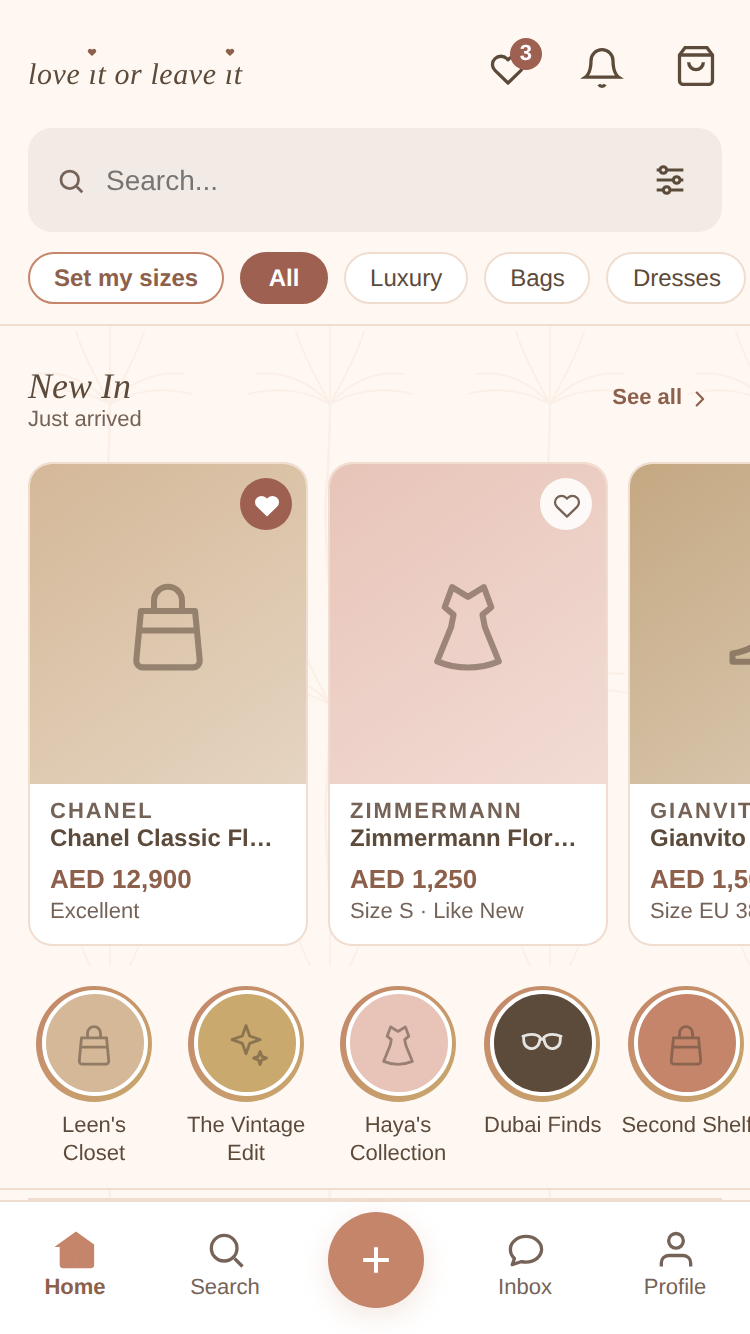
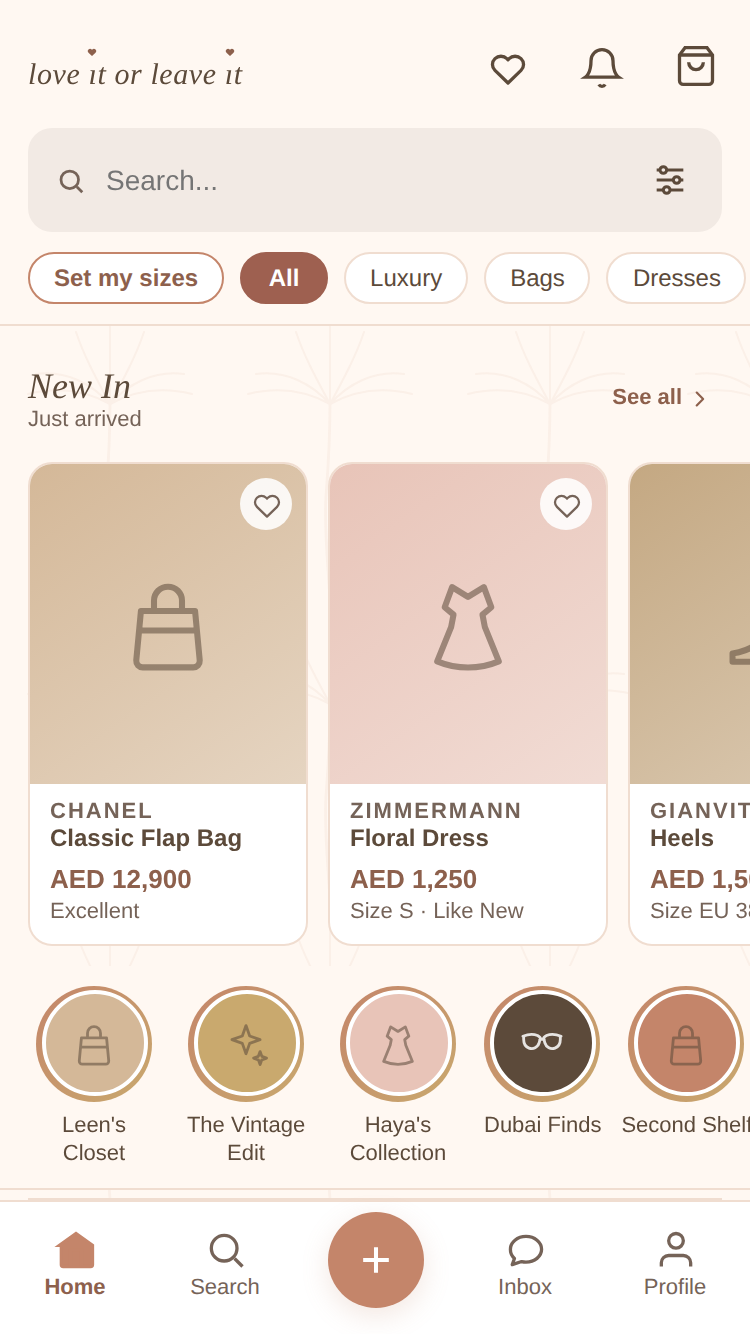
Audit two app findings: price guide, dark-mode fields, keyboard tiles, honest seeds
- A2-1 price guide: only a named model's floor, "resell from about AED X",
  worded the same on the item page and the offer sheet; no range and no
  above/inside/under verdict built from a fake-detection floor
- A2-2 search field and error alerts use theme tokens (--c-field,
  --c-alert-bg); typed search text was 1.04:1 in dark mode
- A2-3 grid tiles open from the keyboard: the title is a real button
- A2-4 a first visit starts with no saves, and only three sample pieces
  read as NEW
- A2-5 saved searches promise the "N new" count that works, not an alert
  that the database drops until the owner SQL runs
- A2-11 private reads name their columns instead of select("*")
- A2-12 tiles and the New In strip don't repeat the brand in the title
- A2-13 language rows are one line; per-language notes moved under
  "How this works"
- A2-8 tests: axe runs in dark mode with text typed into search (it fails
  on the old colour), and the keyboard suite tabs to a grid tile and opens it

Claude-Session: https://claude.ai/code/session_01UPPZeDd8ShCtBFb3VinzWU

diff --git a/app/src/market/shared.jsx b/app/src/market/shared.jsx
@@ -10,7 +10,7 @@ import * as offers from "../data/offers.js";
 import { isNewArrival } from "../discovery/ranking.js";
 import { t, getLang } from "../i18n/t.js";
 import { type as typeScale, space } from "../theme/scale.js";
-import { backArrow } from "../i18n/direction.js";
+import { backArrow, money } from "../i18n/direction.js";
 import { sizeLabel } from "../sizes/sizeSystem.js";
 import { useSizeSystem } from "../sizes/SizeSystemPicker.jsx";
 
@@ -172,13 +172,13 @@ export const SHOPS = [
 ];
 
 export const ITEMS = [
-  {id:1,shopId:1,title:"Chanel Classic Flap Bag",titleAr:"شنطة شانيل كلاسيك فلاب",subtitle:"Medium · Beige Lambskin",price:12900,brand:"Chanel",category:"Luxury",condition:"Excellent",era:"Modern",size:"OS",color:"#D4B898",icon:"bag",photo:null,saved:true,desc:"Timeless Chanel Classic Flap in beige lambskin with gold hardware. Gently used, excellent condition. Comes with dust bag and authenticity card.",offers:[]},
+  {id:1,shopId:1,title:"Chanel Classic Flap Bag",titleAr:"شنطة شانيل كلاسيك فلاب",subtitle:"Medium · Beige Lambskin",price:12900,brand:"Chanel",category:"Luxury",condition:"Excellent",era:"Modern",size:"OS",color:"#D4B898",icon:"bag",photo:null,saved:false,desc:"Timeless Chanel Classic Flap in beige lambskin with gold hardware. Gently used, excellent condition. Comes with dust bag and authenticity card.",offers:[]},
   {id:2,shopId:1,title:"Zimmermann Floral Dress",titleAr:"فستان زيمرمان الزهري",subtitle:"Ruffle Mini",price:1250,brand:"Zimmermann",category:"Dresses",condition:"Like New",era:"Modern",size:"S",color:"#E8C4B8",icon:"dress",photo:null,saved:false,desc:"Beautiful Zimmermann ruffle mini dress with floral print. Worn once to a brunch. Perfect condition.",offers:[]},
   {id:3,shopId:2,title:"Gianvito Rossi Heels",titleAr:"كعب جيانفيتو روسي",subtitle:"Nude Pumps 38",price:1500,brand:"Gianvito Rossi",category:"Shoes",condition:"Good",era:"Modern",size:"38",color:"#C4A882",icon:"heel",photo:null,saved:false,desc:"Gianvito Rossi Gianvito 105 pumps in nude PVC. Minor sole wear. Stunning on.",offers:[]},
-  {id:4,shopId:2,title:"Van Cleef Vintage Alhambra",titleAr:"فان كليف فينتاج الحمبرا",subtitle:"Yellow Gold · Malachite",price:8200,brand:"Van Cleef & Arpels",category:"Luxury",condition:"Excellent",era:"Vintage",size:"OS",color:"#C9A96E",icon:"jewellery",photo:null,saved:true,desc:"Iconic Van Cleef & Arpels Vintage Alhambra necklace. Yellow gold with malachite. Comes with original pouch.",offers:[]},
+  {id:4,shopId:2,title:"Van Cleef Vintage Alhambra",titleAr:"فان كليف فينتاج الحمبرا",subtitle:"Yellow Gold · Malachite",price:8200,brand:"Van Cleef & Arpels",category:"Luxury",condition:"Excellent",era:"Vintage",size:"OS",color:"#C9A96E",icon:"jewellery",photo:null,saved:false,desc:"Iconic Van Cleef & Arpels Vintage Alhambra necklace. Yellow gold with malachite. Comes with original pouch.",offers:[]},
   {id:5,shopId:3,title:"Chloé Woody Tote",titleAr:"شنطة كلوي وودي",subtitle:"Tan & White Canvas",price:1650,brand:"Chloé",category:"Bags",condition:"Like New",era:"Modern",size:"OS",color:"#D4B898",icon:"bag",photo:null,saved:false,desc:"Chloé Woody tote in tan and white. Barely used. Perfect summer bag.",offers:[]},
   {id:6,shopId:4,title:"Linen Abaya",titleAr:"عباية كتان",subtitle:"Dubai Design · Cream",price:260,brand:"Local Designer",category:"Abayas",condition:"Like New",era:"Modern",size:"M",color:"#EDE0D0",icon:"abaya",photo:null,saved:false,desc:"Beautifully crafted linen abaya in warm white. Worn once to a family gathering.",offers:[]},
-  {id:7,shopId:5,title:"Celine Sunglasses",titleAr:"نظارة سيلين",subtitle:"Cat Eye · Tortoiseshell",price:800,brand:"Celine",category:"Luxury",condition:"Excellent",era:"Modern",size:"OS",color:"#5C4A3A",icon:"sunglass",photo:null,saved:true,desc:"Celine cat-eye sunglasses in tortoiseshell. Come with original case and cleaning cloth.",offers:[]},
+  {id:7,shopId:5,title:"Celine Sunglasses",titleAr:"نظارة سيلين",subtitle:"Cat Eye · Tortoiseshell",price:800,brand:"Celine",category:"Luxury",condition:"Excellent",era:"Modern",size:"OS",color:"#5C4A3A",icon:"sunglass",photo:null,saved:false,desc:"Celine cat-eye sunglasses in tortoiseshell. Come with original case and cleaning cloth.",offers:[]},
   {id:8,shopId:6,title:"Reformation Midi Dress",titleAr:"فستان ريفورميشن",subtitle:"Terracotta · Fitted",price:480,brand:"Reformation",category:"Dresses",condition:"Like New",era:"Y2K",size:"XS",color:"#C4856A",icon:"dress",photo:null,saved:false,desc:"Reformation fitted midi in warm terracotta. Worn once to a brunch. Stunning silhouette.",offers:[]},
   {id:9,shopId:1,title:"Bottega Veneta Pouch",titleAr:"حقيبة بوتيغا فينيتا",subtitle:"Intrecciato · Nude",price:3200,brand:"Bottega Veneta",category:"Bags",condition:"Like New",era:"Modern",size:"OS",color:"#C4A882",icon:"bag",photo:null,saved:false,desc:"The iconic Bottega Veneta pouch in nude intrecciato leather. Like new, barely carried.",offers:[]},
   {id:10,shopId:3,title:"Jacquemus Le Chiquito",titleAr:"جاكيموس لو شيكيتو",subtitle:"Mini Bag · Caramel",price:1800,brand:"Jacquemus",category:"Bags",condition:"Excellent",era:"Modern",size:"OS",color:"#C9A96E",icon:"bag",photo:null,saved:false,desc:"Jacquemus Le Chiquito in caramel leather. Absolutely perfect condition with dustbag.",offers:[]},
@@ -397,7 +397,7 @@ export function BackBtn({onBack}) {
 // how many are on, so a narrowed feed never looks like an empty marketplace.
 export function SearchBar({value,onChange,autoFocus=false,placeholder="Search...",onFilters,filterCount=0}) {
   return (
-    <div style={{display:"flex",alignItems:"center",gap:8,background:"#F2EAE4",
+    <div style={{display:"flex",alignItems:"center",gap:8,background:"var(--c-field)",
       borderRadius:12,padding:onFilters?"4px 4px 4px 14px":"10px 14px",margin:"0 14px 10px"}}>
       <svg width="15" height="15" viewBox="0 0 24 24" fill="none" stroke={C.inkLt} strokeWidth="2.2" aria-hidden="true"><circle cx="11" cy="11" r="7"/><path d="M21 21l-4.35-4.35"/></svg>
       <input value={value} onChange={e=>onChange(e.target.value)}
@@ -415,7 +415,7 @@ export function SearchBar({value,onChange,autoFocus=false,placeholder="Search...
           <svg width="20" height="20" viewBox="0 0 24 24" fill="none" stroke="currentColor" strokeWidth="1.8" aria-hidden="true">
             <line x1="4" y1="6" x2="20" y2="6"/><line x1="4" y1="12" x2="20" y2="12"/>
             <line x1="4" y1="18" x2="20" y2="18"/>
-            <circle cx="8" cy="6" r="2" fill={filterCount?C.btn:"#F2EAE4"}/><circle cx="16" cy="12" r="2" fill={filterCount?C.btn:"#F2EAE4"}/><circle cx="10" cy="18" r="2" fill={filterCount?C.btn:"#F2EAE4"}/>
+            <circle cx="8" cy="6" r="2" fill={filterCount?C.btn:"var(--c-field)"}/><circle cx="16" cy="12" r="2" fill={filterCount?C.btn:"var(--c-field)"}/><circle cx="10" cy="18" r="2" fill={filterCount?C.btn:"var(--c-field)"}/>
           </svg>
           {filterCount > 0 && <span style={{fontSize:12,fontWeight:700}}>{filterCount}</span>}
         </button>
@@ -479,6 +479,16 @@ export function Monogram({shop, size=44}) {
 
 
 
+// A2-12: the brand sits on its own line above, so a title that starts with it
+// ("Chanel Classic Flap Bag" under CHANEL) loses the useful words off the tile.
+export function tileTitle(item) {
+  const title = getLang()==="ar" && item.titleAr ? item.titleAr : (item.title || "");
+  const b = (item.brand || "").trim();
+  if (b && title.toLowerCase().startsWith(b.toLowerCase() + " ") && title.length > b.length + 3)
+    return title.slice(b.length + 1);
+  return title;
+}
+
 export function ItemTile({item,onSave,onClick,loading}) {
   useSizeSystem();          // re-render when she switches EU / UK / US …
   // A tile waiting on its own data renders the skeleton at the same size,
@@ -492,7 +502,8 @@ export function ItemTile({item,onSave,onClick,loading}) {
       onMouseLeave={e=>e.currentTarget.style.transform=""}>
       <div className="lili-ratio-tile">
         <ItemPhoto item={item}/>
-        <button className="tap-round" aria-label="Save" onClick={e=>{e.stopPropagation();onSave(item.id)}} style={{
+        <button className="tap-round" aria-label={`Save ${item.title}`} aria-pressed={!!item.saved}
+          onClick={e=>{e.stopPropagation();onSave(item.id)}} style={{
           position:"absolute",top:8,right:8,width:30,height:30,borderRadius:"50%",
           background:item.saved?C.btn:C.scrimDD,
           border:`1.5px solid ${item.saved?C.terra:C.border}`,
@@ -521,9 +532,15 @@ export function ItemTile({item,onSave,onClick,loading}) {
         {/* One title, in her language. Both on every card doubled the text in
             the grid and halved the room for the garment; the Arabic title is
             still searched, and shown in full on the piece itself. */}
-        <div dir="auto" style={{fontSize:13,fontWeight:600,color:C.ink,lineHeight:1.3,marginBottom:4,
+        {/* A2-3: the tile is a div for touch, so the title is the real button
+            a keyboard or switch user reaches and presses to open the piece. */}
+        <button type="button" dir="auto" data-tile-title onClick={e=>{e.stopPropagation();onClick&&onClick();}}
+          aria-label={`${item.brand ? item.brand+" " : ""}${tileTitle(item)}, ${money(item.price)}`}
+          style={{display:"block",width:"100%",textAlign:"start",background:"none",border:"none",padding:0,
+          fontFamily:"inherit",cursor:"pointer",
+          fontSize:13,fontWeight:600,color:C.ink,lineHeight:1.3,marginBottom:4,
           whiteSpace:"nowrap",overflow:"hidden",textOverflow:"ellipsis"}}>
-          {getLang()==="ar" && item.titleAr ? item.titleAr : item.title}</div>
+          {tileTitle(item)}</button>
         <PriceTag item={item} size={14}/>
         {/* Size and condition read together, as one line, under the price —
             the two things she filters on in her head before she taps. */}

diff --git a/app/src/backend/remote.js b/app/src/backend/remote.js
@@ -122,6 +122,14 @@ const fromRow = (r) => r && ({ ...r,
   thumb: Array.isArray(r.thumbs) && r.thumbs.length ? r.thumbs[0]
        : (Array.isArray(r.photos) && r.photos.length ? r.photos[0] : null) });
 
+// A2-11: the private reads name their columns, as listings and shops do, so a
+// column added later (an internal note, a flag) is never sent by accident.
+const LILI_CONVERSATIONS_COLUMNS = "id,buyer_uid,seller_uid,shop_id,item_id,last_message,last_at,created_at";
+const LILI_MEETS_COLUMNS = "id,conversation_id,item_id,proposed_by,place_key,place_note,meet_at,state,confirmed_at,cancelled_by,checkin_by,checkin_state,checkin_at,created_at";
+const LILI_MESSAGES_COLUMNS = "id,conversation_id,sender_uid,body,read_at,created_at";
+const LILI_NOTIFICATIONS_COLUMNS = "id,user_id,kind,title,body,link_kind,link_id,read_at,created_at";
+const LILI_OFFERS_COLUMNS = "id,item_id,shop_id,buyer_uid,seller_uid,amount,currency,message,state,counter_of,responded_at,expires_at,created_at,made_by";
+
 // ── the row allowlist ───────────────────────────────────────────────────────
 //
 // v2.8 fix, and the most expensive bug in the project so far.
@@ -906,7 +914,7 @@ export async function getConversations() {
   const sb = await db();
   const uid = await currentUid();
   const { data, error } = await sb.from("lili_conversations")
-    .select("*").or(`buyer_uid.eq.${uid},seller_uid.eq.${uid}`)
+    .select(LILI_CONVERSATIONS_COLUMNS).or(`buyer_uid.eq.${uid},seller_uid.eq.${uid}`)
     .order("last_at", { ascending: false });
   if (error) throw error;
   return (data || []).map((c) => ({ ...c, mine: c.buyer_uid === uid ? "buyer" : "seller" }));
@@ -917,7 +925,7 @@ export async function openConversation({ sellerUid, shopId, itemId }) {
   const sb = await db();
   const uid = await currentUid();
   if (sellerUid === uid) throw new Error("That's your own listing");
-  let find = sb.from("lili_conversations").select("*")
+  let find = sb.from("lili_conversations").select(LILI_CONVERSATIONS_COLUMNS)
     .eq("buyer_uid", uid).eq("seller_uid", sellerUid);
   // `.eq(col, null)` asks for `= NULL`, which matches nothing, so a thread
   // about the shop rather than a piece was opened again every time.
@@ -934,7 +942,7 @@ export async function openConversation({ sellerUid, shopId, itemId }) {
 export async function getMessages(conversationId) {
   const sb = await db();
   const { data, error } = await sb.from("lili_messages")
-    .select("*").eq("conversation_id", conversationId)
+    .select(LILI_MESSAGES_COLUMNS).eq("conversation_id", conversationId)
     .order("created_at", { ascending: true }).limit(500);
   if (error) throw error;
   return data || [];
@@ -1108,7 +1116,7 @@ export async function eraseMe() {
 
 export async function getMeets(conversationId) {
   const sb = await db();
-  const { data, error } = await sb.from("lili_meets").select("*")
+  const { data, error } = await sb.from("lili_meets").select(LILI_MEETS_COLUMNS)
     .eq("conversation_id", conversationId).order("created_at", { ascending: false }).limit(10);
   if (error) throw error;
   return data || [];
@@ -1256,7 +1264,7 @@ export async function getShopStats(shopId) {
 export async function getNotifications({ unreadOnly = false, limit = 50 } = {}) {
   const sb = await db();
   const uid = await currentUid();
-  let q = sb.from("lili_notifications").select("*").eq("user_id", uid)
+  let q = sb.from("lili_notifications").select(LILI_NOTIFICATIONS_COLUMNS).eq("user_id", uid)
     .order("created_at", { ascending: false }).limit(limit);
   if (unreadOnly) q = q.is("read_at", null);
   const { data, error } = await q;
@@ -1342,7 +1350,7 @@ export async function makeOffer({ itemId, shopId, sellerUid, amount, message }) 
 export async function getOffers() {
   const sb = await db();
   const uid = await currentUid();
-  const { data, error } = await sb.from("lili_offers").select("*")
+  const { data, error } = await sb.from("lili_offers").select(LILI_OFFERS_COLUMNS)
     .or(`buyer_uid.eq.${uid},seller_uid.eq.${uid}`)
     .order("created_at", { ascending: false }).limit(200);
   if (error) throw error;

diff --git a/app/src/market/ItemModal.jsx b/app/src/market/ItemModal.jsx
@@ -52,29 +52,24 @@ export function PriceContext({ item }) {
     return () => { alive = false; };
   }, [item && item.id]);
 
-  if (!band) return null;
-  const price = Number(item.price) || 0;
-  const range = `AED ${band.low.toLocaleString()}–${band.high.toLocaleString()}`;
-  const where = price <= 0 ? null
-    : price < band.low ? "This one is under that range."
-    : price > band.high ? "This one is above that range."
-    : "This one sits inside that range.";
-
-  // M-11: one line on the screen where she decides; the provenance is a tap away.
-  const short = price <= 0 ? null
-    : price < band.low ? "under that" : price > band.high ? "above that" : "inside that";
+  // Audit A2-1: the band's `low` is the floor of genuine (it exists to flag
+  // fakes) and `high` was that floor times a fixed spread, so "AED 12,000–
+  // 144,000" was noise, and "above that range" told a fairly priced seller she
+  // was over the market on no data. Now: only a named model, which has a real
+  // floor, and only that floor, worded the same as on the offer sheet.
+  if (!band || !band.model) return null;
   return (
     <div style={{background:C.sand,border:`1px solid ${C.border}`,borderRadius:12,
       padding:"8px 12px",marginBottom:14}}>
       <div style={{fontSize:12,color:C.ink,lineHeight:1.5}}>
-        Usually resells here for <b>{range}</b>{short ? ` · this one is ${short}` : ""}
+        Genuine {band.tierBrand} pieces like this in {band.condition} condition resell from about <b>AED {band.low.toLocaleString("en-US")}</b>
       </div>
       <details style={{marginTop:2}}>
         <summary style={{fontSize:11,color:C.inkLt,cursor:"pointer",minHeight:24,
           display:"flex",alignItems:"center"}}>How this works</summary>
         <div style={{fontSize:11,color:C.inkLt,lineHeight:1.5,marginTop:2}}>
-          Pieces of this kind, in this condition, from published resale data.{where ? ` ${where}` : ""}{" "}
-          A guide, not an appraisal of this piece.
+          The lowest prices genuine pieces of this model reach second-hand, from published resale
+          data. Far below it is a reason to ask for proof of purchase. A guide, not an appraisal of this piece.
         </div>
       </details>
     </div>

diff --git a/app/src/discovery/SavedSearches.jsx b/app/src/discovery/SavedSearches.jsx
@@ -5,8 +5,10 @@ import * as repo from "../data/repo.js";
 import { money } from "../i18n/direction.js";
 
 // ── search page (Jacob's Law: dedicated search tab like Depop/TikTok) ─────
-// "Tell me when it's listed": the search she just ran, kept on the server so the
-// database can tell her the moment a matching piece goes live. Vinted, Depop
+// The search she just ran, kept on the server with a count of new matches.
+// Audit A2-5: the button said "Tell me when it's listed" while every alert was
+// dropped (the notification kind isn't allowed until the owner runs
+// supabase/pending). It promises the count, which works, until then. Vinted, Depop
 // and Vestiaire all have it; for a catalogue this young, where most searches
 // come back short, it is the difference between a dead end and a reason to
 // come back.
@@ -25,7 +27,7 @@ export function SaveSearchButton({q, filters, prominent}) {
   const what = `“${q.trim()}”${category?` in ${category}`:""}${maxPrice?` under ${money(maxPrice)}`:""}`;
   if (state === "saved") return (
     <div role="status" style={{fontSize:12,color:C.inkLt,lineHeight:1.5,padding:prominent?"10px 0 0":"0 4px 10px"}}>
-      <Icon name="check" size={13} style={{color:C.greenTx,verticalAlign:"-2px"}}/> Saved. We'll tell you when something new matches {what}.
+      <Icon name="check" size={13} style={{color:C.greenTx,verticalAlign:"-2px"}}/> Saved. Your saved searches show how many new pieces match {what} each time you open lili.
     </div>
   );
   return (
@@ -38,7 +40,7 @@ export function SaveSearchButton({q, filters, prominent}) {
              padding:"6px 14px",fontSize:12,fontWeight:700,cursor:"pointer",fontFamily:"inherit",
              display:"inline-flex",alignItems:"center",gap:6}}>
         {!prominent && <Icon name="bell" size={13}/>}
-        {state==="busy" ? "Saving…" : prominent ? "Tell me when it's listed" : "Save this search"}
+        {state==="busy" ? "Saving…" : "Save this search"}
       </button>
       {problem && <div role="alert" style={{fontSize:12,color:C.redTx,marginTop:6}}>{problem}</div>}
     </div>

diff --git a/app/src/Marketplace.jsx b/app/src/Marketplace.jsx
@@ -54,7 +54,7 @@ const AgreementSheet = lazy(() => import("./compliance/AgreementSheet.jsx"));
 import { sellerClausesFor } from "./compliance/agreements.js";
 import * as repo from "./data/repo.js";
 import { normalise as normalisePrefs, fitsMe, hasSizes, isEmpty as prefsEmpty, summary as prefsSummary } from "./profile/preferences.js";
-import { C, PalmBg, Lili, LiliWordmark, T, SHOPS, ITEMS, CATS, categoryLabel, SIZES, ITEM_CATS, STORIES, Avatar, ItemPhoto, TopBar, SearchBar, withHeart, Placeholder, ItemTile, BRANDS } from "./market/shared.jsx";
+import { C, PalmBg, Lili, LiliWordmark, T, SHOPS, ITEMS, CATS, categoryLabel, SIZES, ITEM_CATS, STORIES, Avatar, ItemPhoto, TopBar, SearchBar, withHeart, Placeholder, ItemTile, tileTitle, BRANDS } from "./market/shared.jsx";
 import { FiltersPanel } from "./market/FiltersPanel.jsx";
 import { ItemModal } from "./market/ItemModal.jsx";
 import { OfferModal } from "./market/OfferModal.jsx";
@@ -312,7 +312,7 @@ function NewInStrip({items,onSave,setModal,onSeeAll}) {
               {item.brand && <div style={{fontSize:11,fontWeight:700,letterSpacing:1,color:C.inkLt,
                 textTransform:"uppercase",whiteSpace:"nowrap",overflow:"hidden",textOverflow:"ellipsis"}}>{item.brand}</div>}
               <div dir="auto" style={{fontSize:12,fontWeight:600,color:C.ink,lineHeight:1.3,
-                whiteSpace:"nowrap",overflow:"hidden",textOverflow:"ellipsis"}}>{getLang()==="ar" && item.titleAr ? item.titleAr : item.title}</div>
+                whiteSpace:"nowrap",overflow:"hidden",textOverflow:"ellipsis"}}>{tileTitle(item)}</div>
               <div style={{marginTop:3}}><PriceTag item={item} size={13}/></div>
               <div style={{fontSize:11,color:C.inkLt,marginTop:1,whiteSpace:"nowrap",overflow:"hidden",textOverflow:"ellipsis"}}>
                 {[item.size && item.size!=="OS" ? `Size ${sizeLabel(item.size)}` : null, item.condition].filter(Boolean).join(" · ")}

diff --git a/app/src/pages/SellPage.jsx b/app/src/pages/SellPage.jsx
@@ -461,7 +461,7 @@ export function SellPage({myShop,onCreateShop,onAddItem,setTab,onListed}) {
           : <button onClick={submit} style={{background:"none",border:"none",cursor:"pointer",color:C.terraTx,fontSize:13,fontWeight:700}}>{t("list")}</button>}
       </div>
       {stepError && (
-        <div role="alert" style={{background:"#FBF0EE",borderBottom:`1px solid ${C.red}`,
+        <div role="alert" style={{background:"var(--c-alert-bg)",borderBottom:`1px solid ${C.red}`,
           padding:"10px 14px",fontSize:12,color:C.ink,lineHeight:1.5,
           display:"flex",alignItems:"center",justifyContent:"space-between",gap:10}}>
           <span>{stepError.message}</span>
@@ -673,7 +673,7 @@ export function SellPage({myShop,onCreateShop,onAddItem,setTab,onListed}) {
             <ListingQuality form={form} photos={photos}/>
 
             {publishError && (
-              <div role="alert" style={{background:"#FBF0EE",border:`1.5px solid ${C.red}`,
+              <div role="alert" style={{background:"var(--c-alert-bg)",border:`1.5px solid ${C.red}`,
                 borderRadius:12,padding:"12px 14px",fontSize:12,lineHeight:1.55,color:C.ink}}>
                 <b style={{color:C.redTx}}>Not published.</b> {publishError}
               </div>
@@ -769,7 +769,7 @@ export function SellPage({myShop,onCreateShop,onAddItem,setTab,onListed}) {
             <ListingQuality form={form} photos={photos}/>
 
             {publishError && (
-              <div role="alert" style={{background:"#FBF0EE",border:`1.5px solid ${C.red}`,
+              <div role="alert" style={{background:"var(--c-alert-bg)",border:`1.5px solid ${C.red}`,
                 borderRadius:12,padding:"12px 14px",fontSize:12,lineHeight:1.55,color:C.ink}}>
                 <b style={{color:C.redTx}}>Not published.</b> {publishError}
               </div>

diff --git a/app/src/data/repo.js b/app/src/data/repo.js
@@ -288,19 +288,21 @@ export async function bootstrap(seedItems, seedShops) {
     // (discovery/ranking.js), and the honest created_at for a demo piece is
     // when the demo started — a fresh install genuinely has a fresh catalogue,
     // and a fortnight later the strip empties by itself, as it should.
+    //
+    // Audit A2-4: every piece stamped within the last few hours made all ten
+    // tiles say NEW, which carries no information. The first three read as
+    // new; the rest are dated weeks back, as a real catalogue would be.
     const now = Date.now();
     const stamped = (seedItems || []).map((i, n) => {
-      const { isNew, hasStory, ...rest } = i;
-      return { ...rest, created_at: new Date(now - n * 3600e3).toISOString() };
+      const { isNew, hasStory, saved, ...rest } = i;
+      const ageMs = n < 3 ? n * 3600e3 : (16 + n * 5) * 86400e3;
+      return { ...rest, created_at: new Date(now - ageMs).toISOString() };
     });
     await setJSON(K.items, stamped);
     await setJSON(K.shops, seedShops);
-    // The demo catalogue carries a few `saved` flags so a cold start does not
-    // look untouched. Now that a save is a set of ids rather than a flag on the
-    // listing, that set has to be seeded HERE — otherwise the screen shows
-    // three hearts while the store holds none, and the first tap corrects the
-    // count downwards instead of up.
-    await setJSON(K.saved, stamped.filter((i) => i.saved).map((i) => i.id));
+    // A2-4: a visitor's saves start empty. Hearts she never tapped were a
+    // claim about her that wasn't true.
+    await setJSON(K.saved, []);
     await setJSON(K.seeded, true);
   }
   return {

diff --git a/app/src/market/OfferModal.jsx b/app/src/market/OfferModal.jsx
@@ -212,10 +212,10 @@ export function OfferModal({item,shop,onClose,onSubmit}) {
                 marginBottom:12,boxSizing:"border-box",fontFamily:"inherit"}}/>
 
             {/* Only shown when there IS a basis. No band, no opinion. */}
-            {band && (
+            {band && band.model && (
               <div style={{background:C.sand,borderRadius:10,padding:"10px 14px",marginBottom:12}}>
                 <div style={{fontSize:11,color:C.inkLt,lineHeight:1.55}}>
-                  Comparable {band.tierBrand} pieces in {band.condition} condition
+                  Genuine {band.tierBrand} pieces like this in {band.condition} condition
                   resell from about <b style={{color:C.ink}}>{money(band.low)}</b>.
                   A guide from published resale data, not a valuation of this piece.
                 </div>
@@ -229,7 +229,7 @@ export function OfferModal({item,shop,onClose,onSubmit}) {
               </div>
             )}
             {error && (
-              <div role="alert" style={{background:"#FBF0EE",border:`1px solid ${C.red}`,
+              <div role="alert" style={{background:"var(--c-alert-bg)",border:`1px solid ${C.red}`,
                 borderRadius:10,padding:"10px 14px",marginBottom:12,fontSize:12,
                 color:C.ink,lineHeight:1.55}}>{error}</div>
             )}

diff --git a/app/src/i18n/LanguagePicker.jsx b/app/src/i18n/LanguagePicker.jsx
@@ -99,6 +99,9 @@ export default function LanguagePicker({ onBack, onChange }) {
         English — we would rather tell you that than machine-translate a
         refund policy and hope.
       </Note>
+      {LANGUAGES.filter((l) => l.note).map((l) => (
+        <Note key={l.code}><b>{l.name}.</b> {l.note}</Note>
+      ))}
       </details>
     </Shell>
   );
@@ -127,11 +130,8 @@ function Row({ lang, selected, requested, onClick }) {
               same fabricated claim as a review count nobody wrote. */}
           {partial && <span style={{ color: C.goldTx }}> · partly translated</span>}
         </div>
-        {lang.note && (
-          <div style={{ fontSize: 11, color: C.inkLt, marginTop: 5, lineHeight: 1.5 }}>
-            {lang.note}
-          </div>
-        )}
+        {/* A2-13: the per-language notes made the Arabic row seven lines long;
+            they live under "How this works" now, one line per row here. */}
       </div>
       {selected && <Icon name="check" size={15} stroke={2.2} style={{ color: C.terraTx }} />}
       {planned && (

diff --git a/app/src/theme/palette.css b/app/src/theme/palette.css
@@ -59,6 +59,11 @@
   --c-scrim-ee: rgba(255, 255, 255, 0.93);
 
   --c-shadow:   rgba(196, 133, 106, 0.20);
+
+  /* Fields and alerts used to hard-code these two (audit A2-2), so in dark
+     mode the search text, ink on #F2EAE4, was 1.04:1 — invisible. */
+  --c-field:    #F2EAE4;
+  --c-alert-bg: #FBF0EE;
 }
 
 [data-theme="dark"] {
@@ -97,6 +102,9 @@
   --c-scrim-ee: rgba(22, 17, 14, 0.94);
 
   --c-shadow:   rgba(0, 0, 0, 0.45);
+
+  --c-field:    #2E241D;
+  --c-alert-bg: #3A211D;
 }
 
 @media (prefers-color-scheme: dark) {
@@ -113,6 +121,7 @@
     --c-scrim-88: rgba(22,17,14,.55); --c-scrim-cc: rgba(22,17,14,.82);
     --c-scrim-dd: rgba(22,17,14,.88); --c-scrim-ee: rgba(22,17,14,.94);
     --c-shadow: rgba(0,0,0,.45);
+    --c-field: #2E241D; --c-alert-bg: #3A211D;
   }
 }
 

diff --git a/app/src/compliance/ReportDialog.jsx b/app/src/compliance/ReportDialog.jsx
@@ -148,7 +148,7 @@ export default function ReportDialog({ subject, onClose }) {
             : "A reviewer will look at this and you'll get the outcome and the reason for it."}
         </div>
         {sent.refusal && (
-          <div role="alert" style={{ background: "#FBF0EE", border: `1.5px solid ${C.red}`,
+          <div role="alert" style={{ background: "var(--c-alert-bg)", border: `1.5px solid ${C.red}`,
             borderRadius: 12, padding: "12px 14px", fontSize: 12, lineHeight: 1.55,
             color: C.ink, marginBottom: 12 }}>
             {sent.refusal}

diff --git a/app/src/sell/BulkList.jsx b/app/src/sell/BulkList.jsx
@@ -221,7 +221,7 @@ export default function BulkList({ categories, conditions, brands, sizes,
         </label>
 
         {readError && (
-          <div role="alert" style={{ background: "#FBF0EE", border: `1px solid ${C.red}`,
+          <div role="alert" style={{ background: "var(--c-alert-bg)", border: `1px solid ${C.red}`,
             borderRadius: 10, padding: "10px 12px", fontSize: 12, color: C.ink,
             lineHeight: 1.55, marginBottom: 14 }}>
             <b style={{ color: C.redTx }}>Some photographs weren't added.</b>
